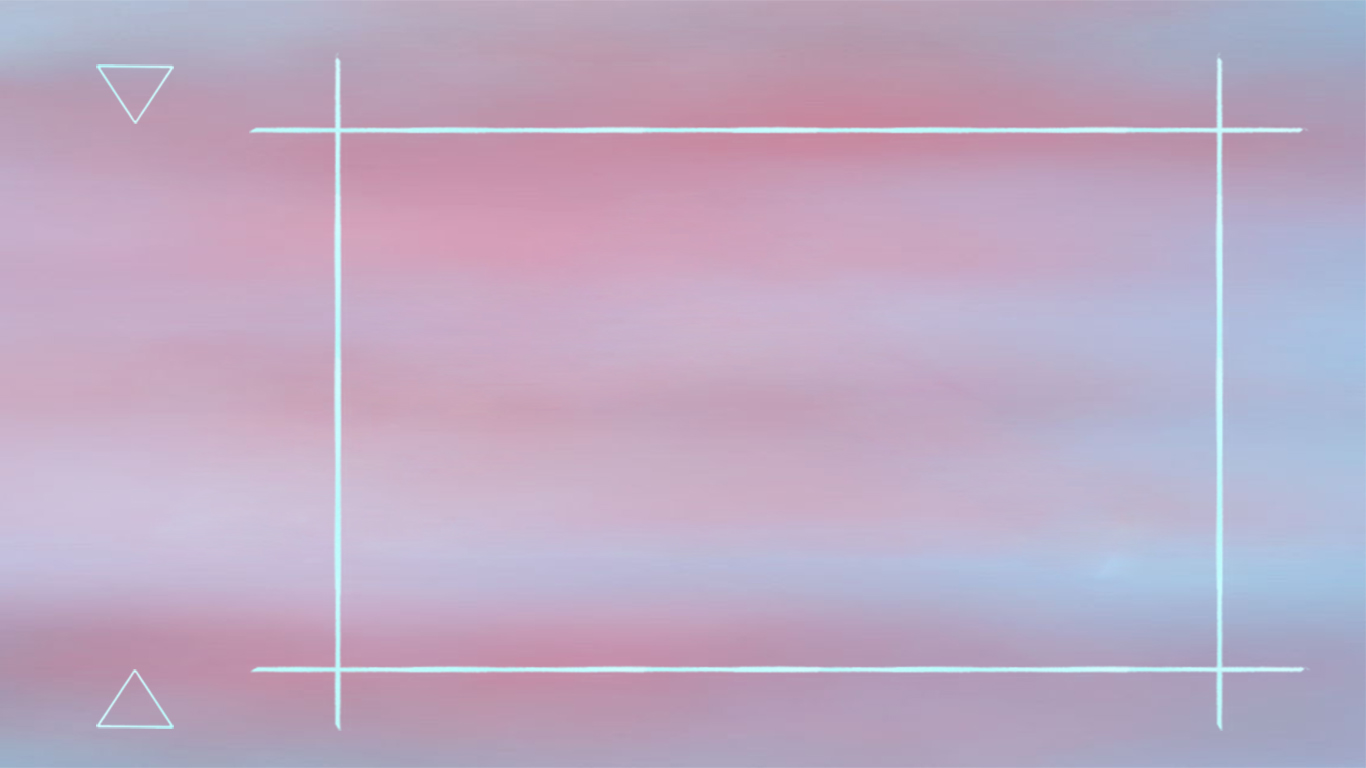
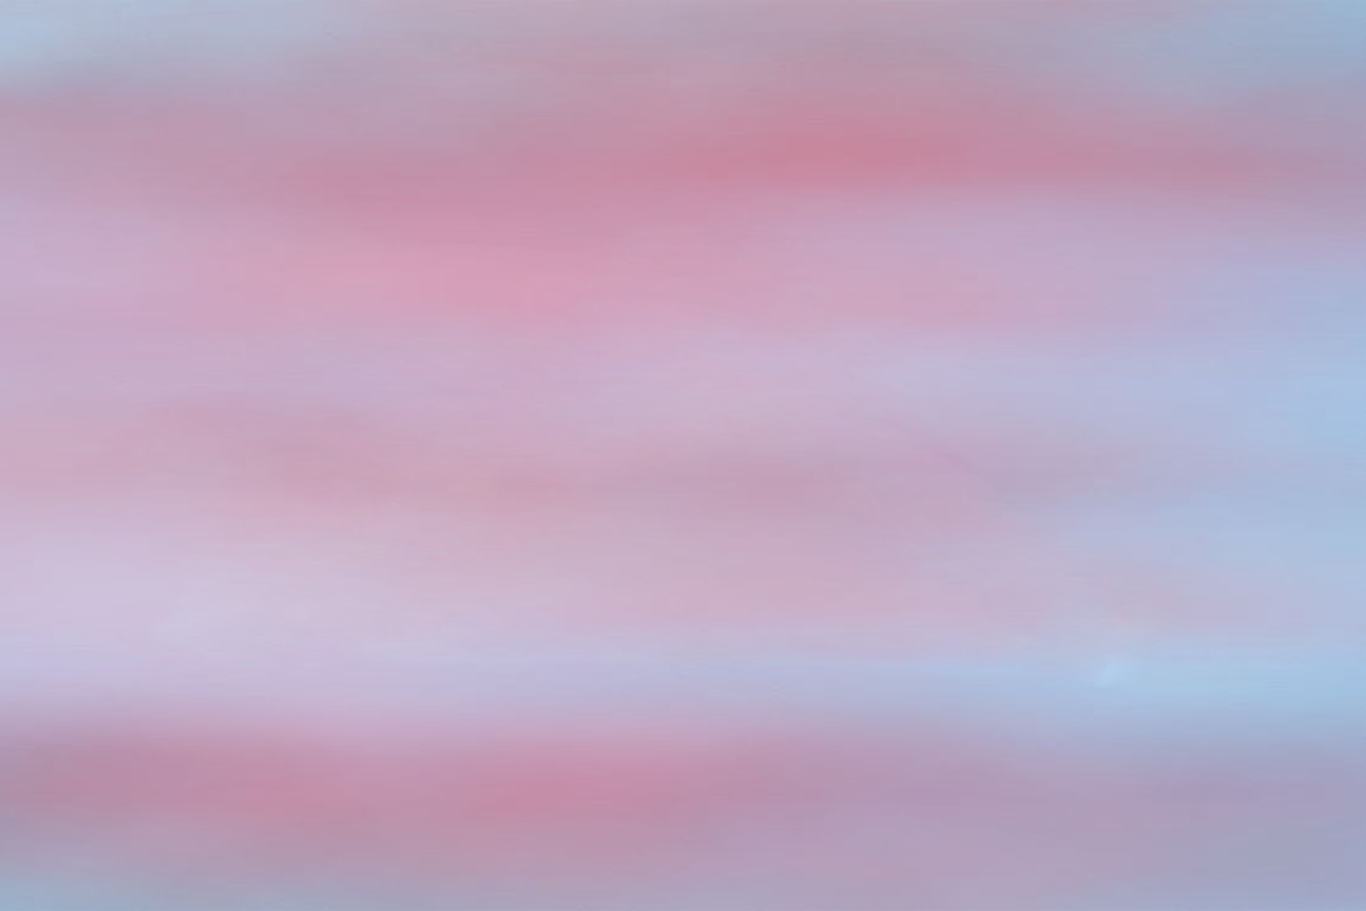
update 2013-6-16

diff --git a/Classes/GalleryScene.cpp b/Classes/GalleryScene.cpp
@@ -48,10 +48,20 @@ bool GalleryLayer::init()
     tableView->reloadData();
 	*/
 
+	/*
+	------
+	|    |
+	|    |
+	|    |
+	|    |
+	*-----  <----- this point
+	*/
+	float width = 70;
 	float height = (VisibleRect::top().y-VisibleRect::bottom().y)*(2.0/3.0);
-	CCTableView* tableView = CCTableView::create(this, CCSizeMake(70, height));
+	CCPoint pos(ccp(VisibleRect::left().x+50,VisibleRect::left().y-height/2));
+	CCTableView* tableView = CCTableView::create(this, CCSizeMake(width, height));
 	tableView->setDirection(kCCScrollViewDirectionVertical);
-	tableView->setPosition(ccp(VisibleRect::left().x+50,VisibleRect::left().y-height/2));
+	tableView->setPosition(pos);
 	//tableView->setAnchorPoint(ccp(1,1));
 	tableView->setDelegate(this);
 	tableView->setVerticalFillOrder(kCCTableViewFillTopDown);
@@ -68,6 +78,24 @@ bool GalleryLayer::init()
 		// Add the sprite to layer as a child layer.
 		this->addChild(pSprite, 0);
 	}
+
+	//elements
+	CCSprite *pTriUp = CCSprite::create(rcGalleryTriangleUp);
+	CCSprite *pTriDown = CCSprite::create(rcGalleryTriangleDown);
+	CCSprite *pSquare = CCSprite::create(rcGallerySquare);
+
+	pTriDown->setPosition(ccp(pos.x+width/2.0f, pos.y+height));
+	pTriDown->setAnchorPoint(ccp(0.5,0));
+
+	pTriUp->setPosition(ccp(pos.x+width/2.0f, pos.y));
+	pTriUp->setAnchorPoint(ccp(0.5,1));
+
+	pSquare->setPosition(ccp(VisibleRect::right().x*(1.1f/2.0f),VisibleRect::center().y));
+	pSquare->setAnchorPoint(ccp(0.5,0.5));
+	
+	this->addChild(pTriUp,2);
+	this->addChild(pTriDown,2);
+	this->addChild(pSquare,1);
 
     return true;
 }

diff --git a/Classes/CosResource.h b/Classes/CosResource.h
@@ -52,6 +52,9 @@ static const char rcLinkImages[] = "images/LinkObject/elem0-%d.png";
 static const char rcGameEndBackGround[] = "images/BackGround/GameEndBG.png";
 
 static const char rcGalleryBackGround[] = "images/BackGround/GalleryBG.png";
+static const char rcGallerySquare[] = "images/Element/GallSquare.png";
+static const char rcGalleryTriangleUp[] = "images/Element/GallTriUp.png";
+static const char rcGalleryTriangleDown[] = "images/Element/GallTriDown.png";
 
 static const char rcOptionBackGround[] = "images/BackGround/OptionBG.png";/*images/BackGround/MainMenuBG.png*/
 static const char rcOptionSwitchOn[] = "images/Button/switch-on.png";
@@ -59,6 +62,11 @@ static const char rcOptionSwitchOff[] = "images/Button/switch-off.png";
 static const char rcOptionSwitchMask[] = "images/Button/switch-mask.png";
 static const char rcOptionSwitchThumb[] = "images/Button/switch-thumb.png";
 static const char rcOptionButtonBKG[] = "images/Button/buttonBackground.png";
+
+static const char rcMainMenuNormal[] = "images/MenuItem/MainMenuNormal.png";
+static const char rcMainMenuSelected[] = "images/MenuItem/MainMenuSelected.png";
+
+static const char rcTitle[] = "images/Element/title.png";
 
 static const char rcCosData[] = "cosdata.xml";
 

diff --git a/Classes/CosScene.cpp b/Classes/CosScene.cpp
@@ -19,14 +19,14 @@ void CosScene::onEnter()
 //#if (CC_TARGET_PLATFORM == CC_PLATFORM_MARMALADE)
 //    CCLabelBMFont* label = CCLabelBMFont::create("MainMenu",  "fonts/arial16.fnt");
 //#else
-    CCLabelTTF* label = CCLabelTTF::create("MainMenu", "Arial", 20);
+    //CCLabelTTF* label = CCLabelTTF::create("MainMenu", "Arial", 20);
 //#endif
-    CCMenuItemLabel* pMenuItem = CCMenuItemLabel::create(label, this, menu_selector(CosScene::MainMenuCallback));
-
-    CCMenu* pMenu =CCMenu::create(pMenuItem, NULL);
+    //CCMenuItemLabel* pMenuItem = CCMenuItemLabel::create(label, this, menu_selector(CosScene::MainMenuCallback));
+	CCMenuItemImage *pMMItem = CCMenuItemImage::create(rcMainMenuNormal, rcMainMenuSelected, this, menu_selector(CosScene::MainMenuCallback));
+    CCMenu* pMenu =CCMenu::create(pMMItem, NULL);
 
     pMenu->setPosition( CCPointZero );
-    pMenuItem->setPosition( ccp( VisibleRect::right().x - 75, VisibleRect::bottom().y + 25) );
+    pMMItem->setPosition( ccp( VisibleRect::right().x - 75, VisibleRect::bottom().y + 25) );
 
     addChild(pMenu, 1);
 }

diff --git a/Classes/MainMenuScene.cpp b/Classes/MainMenuScene.cpp
@@ -80,6 +80,13 @@ bool MainMenuScene::init()
 			// Add the sprite to HelloWorld layer as a child layer.
 			this->addChild(pSprite, 0);
 		}
+		// Title
+		CCSprite *pTitle = CCSprite::create(rcTitle);
+		if(pTitle){
+			pTitle->setPosition(ccp(VisibleRect::center().x,VisibleRect::top().y*(3.5f/5.0f)));
+			this->addChild(pTitle,1);
+		}
+
 		createGame();	//create game logic
 
 		bRet = true;
